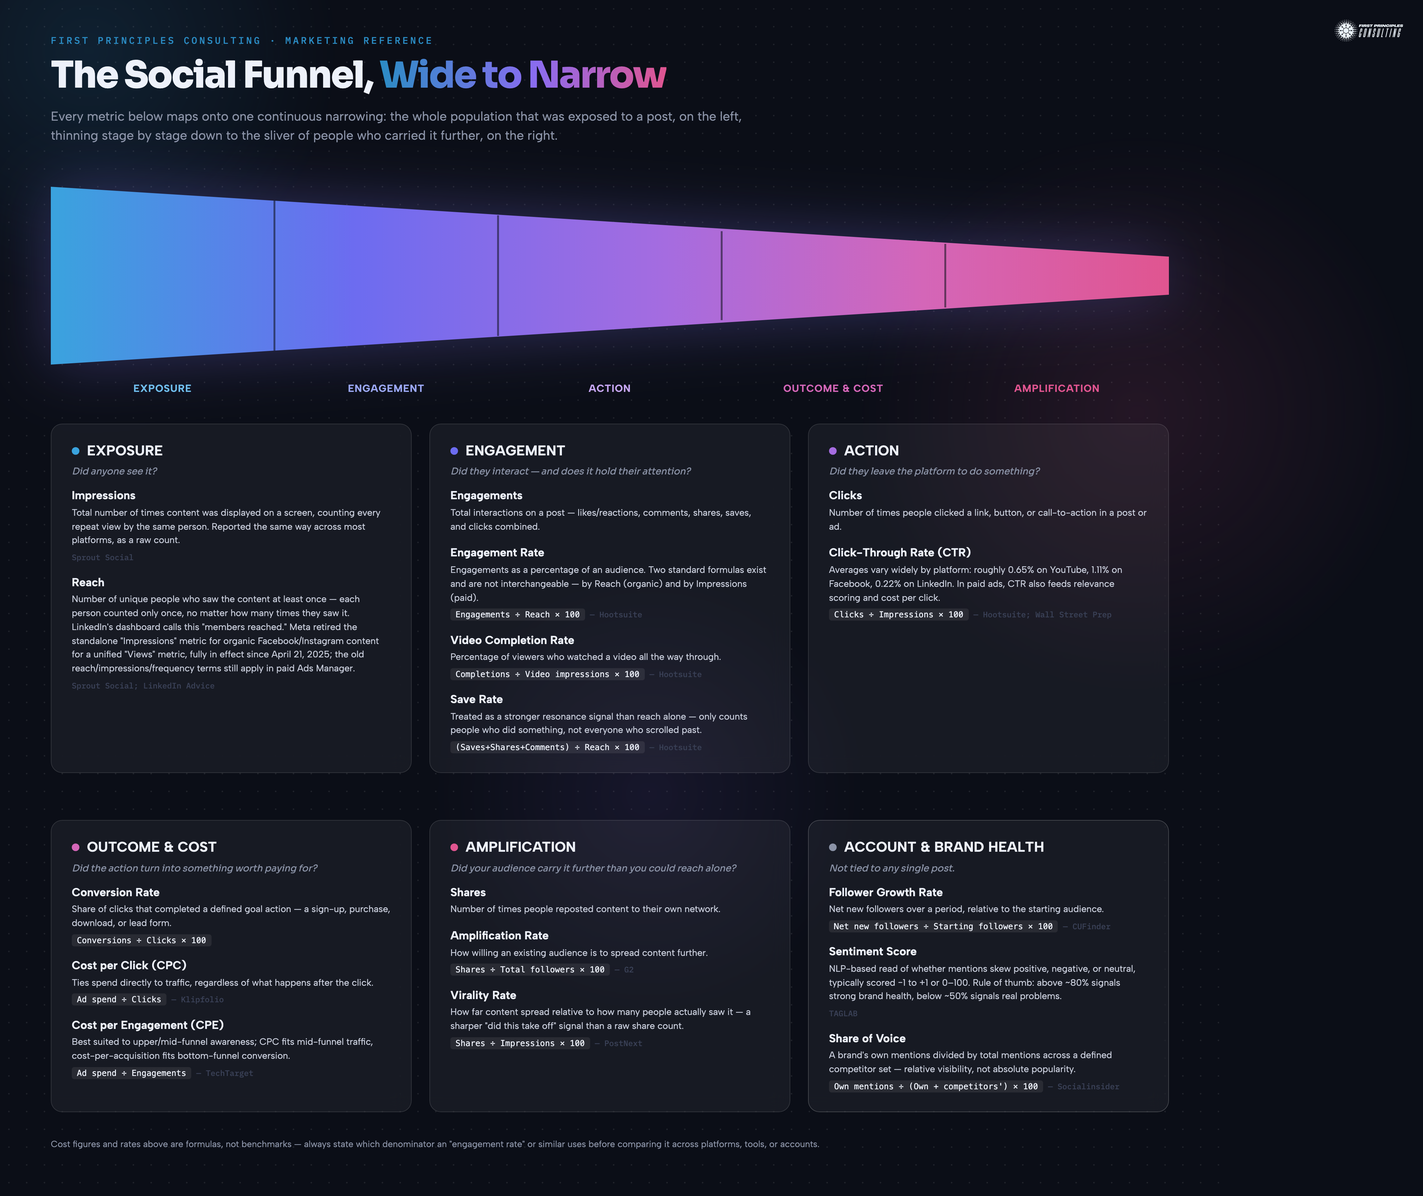
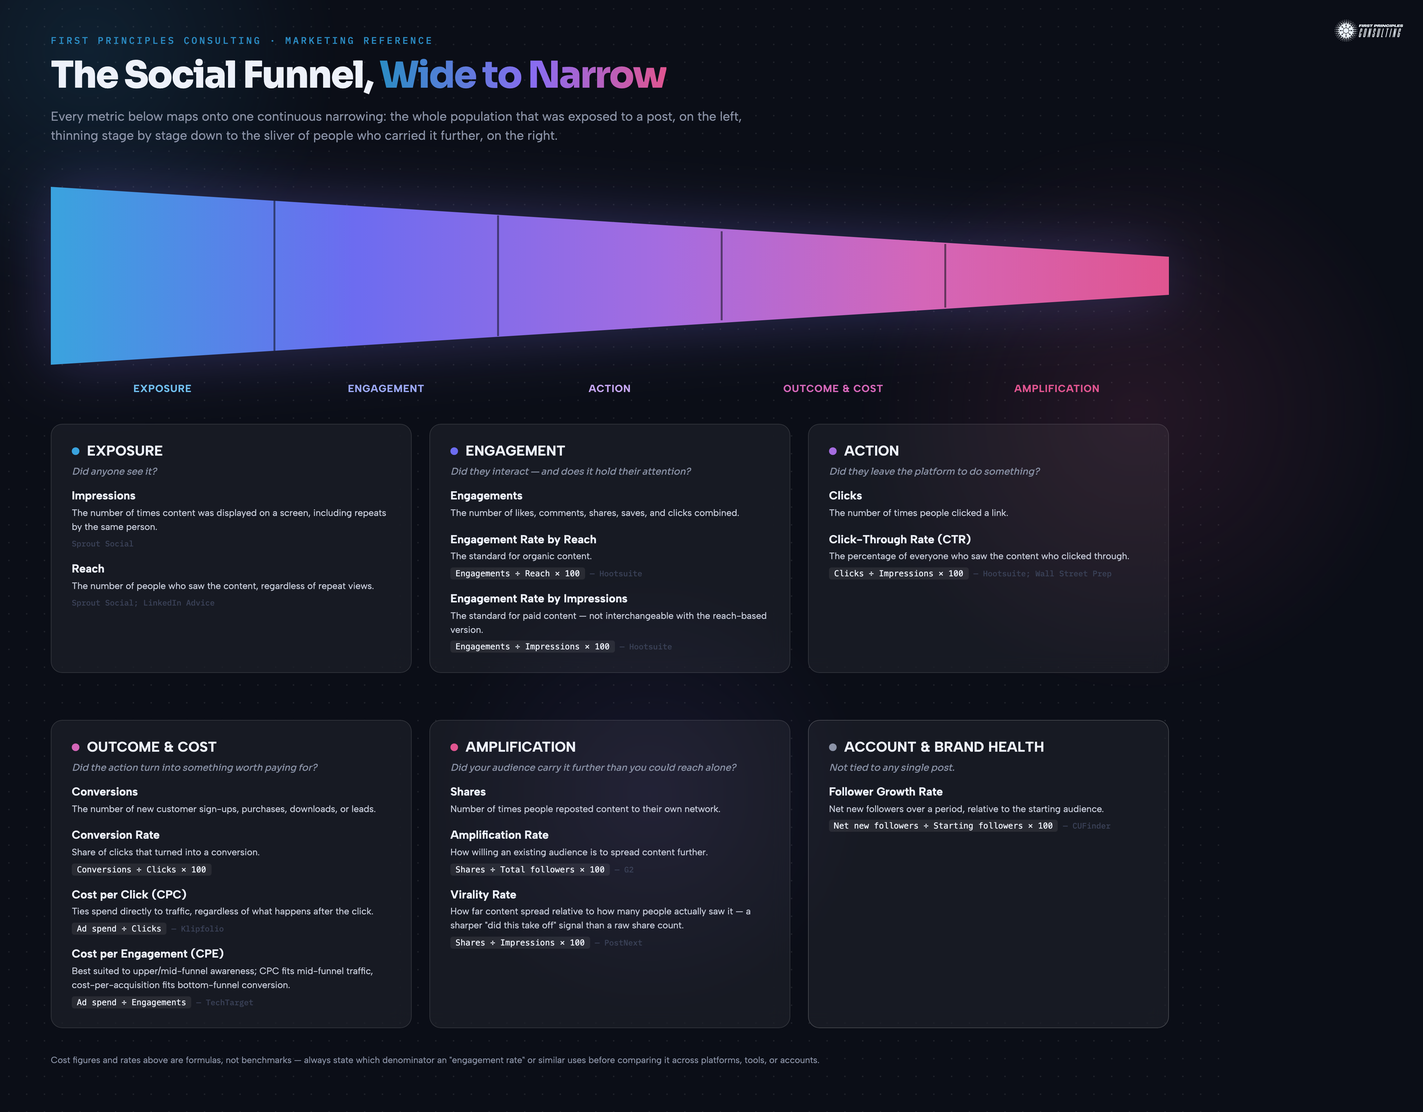
2026-09-07: simplify metric set per Rick's cleaned-up definitions — Social Media Metrics: Definitions and What to Track

diff --git a/reports/2026-09-07-social-media-metrics.md b/reports/2026-09-07-social-media-metrics.md
@@ -8,15 +8,15 @@
 
 Social media performance breaks down into three layers, not five separate numbers to memorize: how many people saw something, how many of them did something, and what that action was worth. Everything else is a variant or a ratio built from those three layers.
 
-Impressions count every time content was displayed, including repeat views by the same person; reach counts each unique person only once. Because of that difference, impressions are always equal to or larger than reach for the same piece of content. Engagements are the total interactions on a post — likes, comments, shares, saves, and clicks combined — and engagement rate expresses that count as a share of an audience, either reach or impressions, depending on which question is being asked: organic content is normally measured against reach, paid content against impressions, and the two numbers are not interchangeable even when people casually call both "engagement rate."
+Impressions count every time content was displayed, including repeat views by the same person; reach counts each person only once regardless of repeat views. Engagements are the number of likes, comments, shares, saves, and clicks combined, and engagement rate expresses that count as a share of an audience — by reach for organic content, by impressions for paid — and the two are not interchangeable even when people casually call both "engagement rate."
 
-Clicks and click-through rate measure the first moment someone leaves the platform to act — clicks divided by impressions, expressed as a percentage. Conversion rate measures what happened after that click: a sign-up, a purchase, a booked call. Cost per click and cost per engagement translate ad spend into a price for each of those actions, and they are the real efficiency check behind every rate above them. Shares, amplification rate, and virality rate measure a different phenomenon entirely — whether an existing audience is willing to carry content to people who were never directly reached, either as a share of followers (amplification) or as a share of the original audience that saw it (virality).
+Clicks and click-through rate measure the first moment someone leaves the platform to act — clicks divided by impressions, expressed as a percentage. Conversions are the actual outcome behind a click — a sign-up, a purchase, a download, a lead — and conversion rate expresses that as a share of clicks. Cost per click and cost per engagement translate ad spend into a price for each of those actions, and they are the real efficiency check behind every rate above them. Shares, amplification rate, and virality rate measure a different phenomenon entirely — whether an existing audience is willing to carry content to people who were never directly reached, either as a share of followers (amplification) or as a share of the original audience that saw it (virality).
 
-Three more metrics sit outside this content-level funnel because they describe the account itself, not any single post: follower growth rate, tracking whether the audience is expanding; sentiment score, an automated read of whether mentions skew positive or negative; and share of voice, a brand's mentions measured against total mentions of a defined competitor set.
+One more metric sits outside this content-level funnel because it describes the account itself, not any single post: follower growth rate, tracking whether the audience is expanding over time.
 
 The most consequential trap in tracking these numbers is comparing "engagement rate" or "impressions" across platforms or tools as if they were standardized measurements — they are not. LinkedIn, Meta, and X each define and count these differently, and Meta retired organic "impressions" entirely for a unified "views" metric in April 2025, with at least one other major platform likely to follow within the next one to three years. The practical fix is tracking each platform's own numbers against its own history rather than forcing cross-platform comparisons, and always naming which denominator an engagement rate uses.
 
-The second trap is treating every metric as equally worth optimizing. Impressions, reach, and follower count are diagnostic — worth watching for trend, not worth chasing directly — while clicks, conversions, and cost-per-action sit closer to whatever the account actually exists to produce, whether that's inquiries, bookings, or reputation. For a consulting brand specifically, the right tracking set beyond the five terms in the original question is: engagement rate (by reach, for consistency), click-through rate, conversion rate, follower growth rate, and a narrowly-scoped share of voice against three to five named competitors — sentiment score is worth having but should be read qualitatively at low mention volumes rather than treated as a precise number.
+The second trap is treating every metric as equally worth optimizing. Impressions, reach, and follower count are diagnostic — worth watching for trend, not worth chasing directly — while clicks, conversions, and cost-per-action sit closer to whatever the account actually exists to produce, whether that's inquiries, bookings, or reputation. For a consulting brand specifically, the right tracking set beyond the five terms in the original question is: engagement rate by reach, click-through rate, conversion rate, and follower growth rate — a short, disciplined list beats a long one nobody actually reviews.
 
 ## Clarifying Questions
 
@@ -31,33 +31,31 @@ Checked `raceBannon99/nexus-artifacts` (the Library) and searched `raceBannon99/
 Metrics fall into five functional groups, moving from "did anyone see it" toward "did it matter":
 
 **Exposure**
-- **Impressions** — the total number of times content was displayed on a screen, counting every repeat view by the same person. Reported the same way across most platforms as a raw count. ([Sprout Social](https://sproutsocial.com/insights/reach-vs-impressions/))
-- **Reach** — the number of unique people who saw the content at least once, each person counted only once regardless of repeat views. LinkedIn's own dashboard calls this "members reached" rather than "reach." Meta retired the standalone "Impressions" metric for organic Facebook/Instagram content in favor of a single "Views" metric, fully in effect since April 21, 2025 — the old reach/impressions/frequency terminology still applies in paid Ads Manager. ([Sprout Social](https://sproutsocial.com/insights/reach-vs-impressions/); [LinkedIn Advice](https://www.linkedin.com/advice/1/how-can-you-distinguish-between-reach))
+- **Impressions** = the number of times content was displayed on a screen, including repeats by the same person. ([Sprout Social](https://sproutsocial.com/insights/reach-vs-impressions/))
+- **Reach** = the number of people who saw the content, regardless of repeat views. ([Sprout Social](https://sproutsocial.com/insights/reach-vs-impressions/); [LinkedIn Advice](https://www.linkedin.com/advice/1/how-can-you-distinguish-between-reach))
 
 **Engagement**
-- **Engagements** — the total interactions on a post: likes/reactions, comments, shares, saves, and clicks combined.
-- **Engagement Rate** — engagements as a percentage of an audience. Two standard formulas exist and are not interchangeable: Engagement Rate by Reach = engagements ÷ reach × 100 (the standard for organic content), and Engagement Rate by Impressions = engagements ÷ impressions × 100 (standard for paid). ([Hootsuite](https://blog.hootsuite.com/calculate-engagement-rate/))
-- **Video Completion Rate** — the percentage of viewers who watched a video to the end: completions ÷ video impressions × 100. ([Hootsuite](https://blog.hootsuite.com/social-video-metrics/))
-- **Save Rate** — (saves + shares + comments) ÷ reach × 100 — treated by practitioners as a stronger resonance signal than reach alone, since it only counts people who did something rather than everyone who scrolled past. ([Hootsuite](https://blog.hootsuite.com/social-video-metrics/))
+- **Engagements** = the number of likes, comments, shares, saves, and clicks combined.
+- **Engagement Rate by Reach** = Engagements ÷ Reach × 100 — the standard for organic content. ([Hootsuite](https://blog.hootsuite.com/calculate-engagement-rate/))
+- **Engagement Rate by Impressions** = Engagements ÷ Impressions × 100 — the standard for paid content; not interchangeable with the reach-based version above. ([Hootsuite](https://blog.hootsuite.com/calculate-engagement-rate/))
 
 **Action**
-- **Clicks** — the number of times people clicked a link, button, or call-to-action in a post or ad.
-- **Click-Through Rate (CTR)** — clicks ÷ impressions × 100. Reported industry averages vary widely by platform: roughly 0.65% on YouTube, 1.11% on Facebook, and 0.22% on LinkedIn. In paid advertising, CTR also feeds ad-relevance scoring and directly affects cost per click. ([Hootsuite](https://blog.hootsuite.com/social-media-definitions/click-through-rate-ctr/); [Wall Street Prep](https://www.wallstreetprep.com/knowledge/click-through-rate-ctr/))
+- **Clicks** = the number of times people clicked a link.
+- **Click-Through Rate (CTR)** = Clicks ÷ Impressions × 100. ([Hootsuite](https://blog.hootsuite.com/social-media-definitions/click-through-rate-ctr/); [Wall Street Prep](https://www.wallstreetprep.com/knowledge/click-through-rate-ctr/))
 
 **Outcome & Cost**
-- **Conversion Rate** — the share of clicks that completed a defined goal action (sign-up, purchase, download, lead form): conversions ÷ clicks × 100.
-- **Cost per Click (CPC)** — ad spend ÷ clicks; ties spend directly to traffic regardless of what happens after the click. ([Klipfolio](https://www.klipfolio.com/resources/kpi-examples/digital-marketing/cost-per-click))
-- **Cost per Engagement (CPE)** — ad spend ÷ engagements; best suited to upper/mid-funnel awareness campaigns, where CPC fits mid-funnel traffic goals and cost-per-acquisition fits bottom-funnel conversion goals. ([TechTarget](https://www.techtarget.com/searchcustomerexperience/definition/cost-per-engagement-CPE))
+- **Conversions** = the number of new customer sign-ups, purchases, downloads, or leads.
+- **Conversion Rate** = Conversions ÷ Clicks × 100.
+- **Cost per Click (CPC)** = Ad spend ÷ Clicks. ([Klipfolio](https://www.klipfolio.com/resources/kpi-examples/digital-marketing/cost-per-click))
+- **Cost per Engagement (CPE)** = Ad spend ÷ Engagements. ([TechTarget](https://www.techtarget.com/searchcustomerexperience/definition/cost-per-engagement-CPE))
 
 **Amplification**
-- **Shares** — the number of times people reposted content to their own network.
-- **Amplification Rate** — shares ÷ total followers × 100 — measures how willing an existing audience is to spread content further. ([G2](https://www.g2.com/articles/social-media-metrics))
-- **Virality Rate** — shares ÷ impressions × 100 — measures how far content spread relative to how many people actually saw it, a sharper "did this take off" signal than a raw share count. ([PostNext](https://postnext.io/glossary/virality-rate))
+- **Shares** = the number of times people reposted content to their own network.
+- **Amplification Rate** = Shares ÷ Total followers × 100. ([G2](https://www.g2.com/articles/social-media-metrics))
+- **Virality Rate** = Shares ÷ Impressions × 100. ([PostNext](https://postnext.io/glossary/virality-rate))
 
 **Account & Brand Health** (not tied to any single post)
-- **Follower Growth Rate** — net new followers over a period ÷ starting follower count × 100. ([CUFinder](https://cufinder.io/blog/wiki/marketing-metrics/follower-growth-rate/))
-- **Sentiment Score** — an NLP-based read of whether mentions, comments, and posts skew positive, negative, or neutral, typically scored on a −1-to-+1 or 0–100 scale. Industry rule-of-thumb treats a score above roughly 80% as strong brand health and below roughly 50% as a signal of real customer-experience problems. ([TAGLAB](https://taglab.net/marketing-metrics/social-media-sentiment-analysis-score-metric-definition/))
-- **Share of Voice** — a brand's own mentions divided by total mentions across a defined competitor set (own mentions + all named competitors' mentions), × 100 — measures relative visibility within a category, not absolute popularity. ([Socialinsider](https://www.socialinsider.io/blog/brand-metrics/))
+- **Follower Growth Rate** = net new followers over a period ÷ starting follower count × 100. ([CUFinder](https://cufinder.io/blog/wiki/marketing-metrics/follower-growth-rate/))
 
 No adversary, threat actor, or attack campaign is involved in this question — Ryan reviewed the draft and confirmed it doesn't call for kill-chain characterization or Adversary Tracking Report treatment; the draft passes through his stage unchanged.
 
@@ -67,7 +65,7 @@ Every social metric answers one of a small number of underlying questions about 
 
 There is a strict causal chain running through most of these metrics: content can only be engaged with by someone who was exposed to it, can only be clicked by someone who engaged (in the loose sense of noticing it), and can only convert someone who clicked. Each stage is, by definition, made up of a subset of the people counted at the stage before it. That's not a design choice in how the funnel diagram below is drawn — it's a real structural constraint on the underlying counts, which is exactly why a "rate" computed at one stage divides by a different denominator than a rate computed at another: each one is answering "what fraction of the stage before this one made it to this one," and those stages are genuinely different populations.
 
-A second, independent axis sits outside that chain entirely: account-level health (follower growth, sentiment, share of voice). These describe the standing state of an audience and a brand's reputation, not what happened to any one post — they compound over time in a way individual-post metrics structurally cannot.
+A second, independent axis sits outside that chain entirely: account-level health, tracked here through follower growth rate. It describes the standing state of an audience, not what happened to any one post — it compounds over time in a way individual-post metrics structurally cannot.
 
 The single most consequential first-principles point: "engagement rate," "impressions," and similar terms are not universal, standardized measurements — they're formulas, and the choice of denominator (reach vs. impressions vs. followers) changes what question is being answered. Two people can both be technically correct and still be describing numbers that differ by a factor of three to five, simply because they picked a different, equally legitimate denominator. Any comparison — across platforms, across accounts, or against a published "benchmark" — is meaningless unless the formula is stated alongside the number.
 
@@ -78,9 +76,8 @@ Several assumptions above deserve genuine pushback before anyone builds a tracki
 - **Cross-platform comparison is close to meaningless as stated.** LinkedIn's "impressions," Meta's now-retired organic "impressions" (replaced by "Views" since April 2025), and X's impression counting are not computed identically. Reporting "impressions were up 20%" without naming the platform and confirming its counting methodology hasn't changed invites a false conclusion.
 - **"Engagement rate" is not one metric.** Because the denominator varies by convention and by platform default, a bare "5% engagement rate" claim is unverifiable and possibly incomparable to whatever it's being compared against. This is the single most common way engagement data gets misread in practice.
 - **Optimizing for engagement rate can actively work against the account's real goal.** Outrage, controversy, and low-value bait content reliably produce high engagement rates without producing anything a consulting brand actually wants (inquiries, credibility, referrals). A metric going up is not automatically good news.
-- **Sentiment Score claims more precision than it has.** NLP sentiment tools routinely misclassify sarcasm, industry-specific jargon, and posts with genuinely mixed sentiment. At the mention volumes a single consulting brand's account is likely to generate — plausibly dozens per month, not thousands — sample size alone should make anyone skeptical of treating a single sentiment number as precise.
-- **Share of Voice assumes data most small accounts don't actually have.** The formula requires comprehensive, comparably-measured mention data across every named competitor — realistic for an enterprise with a social-listening budget, often a rough estimate at smaller scale.
 - **Dismissing "vanity metrics" is its own overcorrection.** Impressions, reach, and raw follower count are upper-funnel by design, but a consulting brand's sales cycle depends on being recognized before being hired — some standing attention to awareness metrics is legitimate, not just vanity.
+- **A single account-health metric is a narrow lens.** Follower Growth Rate says whether the audience is getting bigger, not whether it likes you — a growing follower count can coexist with declining goodwill, and this tracking set has no metric that would catch that on its own.
 
 ## Forecast
 
@@ -89,15 +86,13 @@ Each objection above has a practical resolution, not just an acknowledgment:
 1. **Cross-platform incomparability** is resolved by tracking each platform's own numbers against its own history — trend, not absolute cross-platform comparison — rather than trying to force every platform onto one shared scale.
 2. **Engagement-rate denominator ambiguity** is resolved by always stating which formula is in use next to the number, and standardizing on one formula internally for trend consistency even when external benchmarks use a different one.
 3. **Optimizing for the wrong metric** is resolved by explicitly ranking metrics by proximity to the account's actual goal — for a consulting brand, roughly: awareness → engagement → clicks to the report or site → inquiries or meetings booked — and treating upper-funnel metrics as diagnostic, never as optimization targets in their own right.
-4. **Sentiment Score's imprecision** is resolved by reading a low-volume sentiment score qualitatively (go read the actual mentions behind it) rather than tracking it as a KPI, until mention volume is large enough — roughly on the order of 100+ mentions in a period, as a rough heuristic, not a measured threshold — for the score itself to carry real statistical weight.
-5. **Share of Voice's data burden** is resolved by scoping it narrowly: three to five named direct competitors and a short list of branded search terms, tractable with free or low-cost listening tools, rather than attempting comprehensive category coverage.
-6. **Vanity-metric dismissal** is resolved by keeping impressions, reach, and follower growth as standing diagnostic metrics — reviewed for trend direction only — while reserving optimization effort and reporting emphasis for the metrics closer to actual outcomes.
+4. **Vanity-metric dismissal** is resolved by keeping impressions, reach, and follower growth as standing diagnostic metrics — reviewed for trend direction only — while reserving optimization effort and reporting emphasis for the metrics closer to actual outcomes.
+5. **Follower Growth Rate's narrowness** is resolved with a habit, not a new metric: pair the number with a periodic read of the actual comments and replies behind it. That catches a growing-but-souring audience the count alone can't, without reintroducing a formal score that would face the same small-sample problems a consulting brand's own volume would create.
 
-Looking forward, three trends are worth watching, each expressed as a range with a median rather than a point estimate, since none of this is measured data — it's reasoned extrapolation from one concrete precedent (Meta's April 2025 impressions retirement) and general industry direction, flagged explicitly as judgment, not fact:
+Looking forward, two trends are worth watching, each expressed as a range with a median rather than a point estimate, since none of this is measured data — it's reasoned extrapolation from one concrete precedent (Meta's April 2025 impressions retirement) and general industry direction, flagged explicitly as judgment, not fact:
 
 - **At least one more major platform (most plausibly LinkedIn or X) consolidating "impressions" into a unified views-style metric**, following Meta's lead: the range runs from about 1 to 3 years out, with a median around 18 months.
 - **AI-assisted "quality of engagement" scoring** — weighting a comment's substantiveness rather than just counting it — becoming a standard reported metric: range of about 2 to 5 years, median around 3 years. This already exists in some enterprise social-listening tools but not yet in native platform analytics.
-- **Native, first-party sentiment/brand-health scoring appearing directly in platform analytics dashboards**, reducing reliance on third-party tools: range of 2 to 4 years, median around 3 years, driven by platforms' commercial incentive to keep advertisers from needing to leave their own reporting suite.
 
 ## Make It Clear
 
@@ -118,7 +113,6 @@ None. This engagement used existing tools throughout — web research for defini
 - [Reach vs. Impressions vs. Engagement on Social — Sprout Social](https://sproutsocial.com/insights/reach-vs-impressions/) — definitions of impressions, reach, and engagement, and the mechanical relationship between them.
 - [How can you distinguish between reach and impressions? — LinkedIn Advice](https://www.linkedin.com/advice/1/how-can-you-distinguish-between-reach) — LinkedIn's own "members reached" terminology and Meta's April 2025 retirement of organic impressions in favor of "Views."
 - [How to calculate engagement rate: 2026 formulas & benchmarks — Hootsuite](https://blog.hootsuite.com/calculate-engagement-rate/) — the two standard engagement rate formulas (by reach vs. by impressions) and when each applies.
-- [9 social video metrics you need to track in 2026 — Hootsuite](https://blog.hootsuite.com/social-video-metrics/) — video completion rate and save rate definitions/formulas.
 - [What does click-through rate (CTR) mean? — Hootsuite Social Media Glossary](https://blog.hootsuite.com/social-media-definitions/click-through-rate-ctr/) — CTR definition and its role in ad relevance/cost.
 - [Click-Through Rate (CTR) | Formula + Calculator — Wall Street Prep](https://www.wallstreetprep.com/knowledge/click-through-rate-ctr/) — CTR formula and cross-platform benchmark figures (YouTube/Facebook/LinkedIn).
 - [Cost Per Click (CPC): Formula, benchmarks, and tips — Klipfolio](https://www.klipfolio.com/resources/kpi-examples/digital-marketing/cost-per-click) — CPC definition.
@@ -126,8 +120,6 @@ None. This engagement used existing tools throughout — web research for defini
 - [The 10 Social Media Metrics You Can't Afford to Forget — G2](https://www.g2.com/articles/social-media-metrics) — amplification rate definition and formula.
 - [What is Virality Rate? — PostNext](https://postnext.io/glossary/virality-rate) — virality rate definition and formula, distinguished from amplification rate.
 - [What Is Follower Growth Rate? — CUFinder](https://cufinder.io/blog/wiki/marketing-metrics/follower-growth-rate/) — follower growth rate formula and worked example.
-- [Social Media Sentiment Analysis Score Metric Definition — TAGLAB](https://taglab.net/marketing-metrics/social-media-sentiment-analysis-score-metric-definition/) — sentiment score methodology and scale conventions.
-- [Key Brand Metrics To Track — Socialinsider](https://www.socialinsider.io/blog/brand-metrics/) — share of voice definition and formula.
 
 ## Library Recommendations
 
